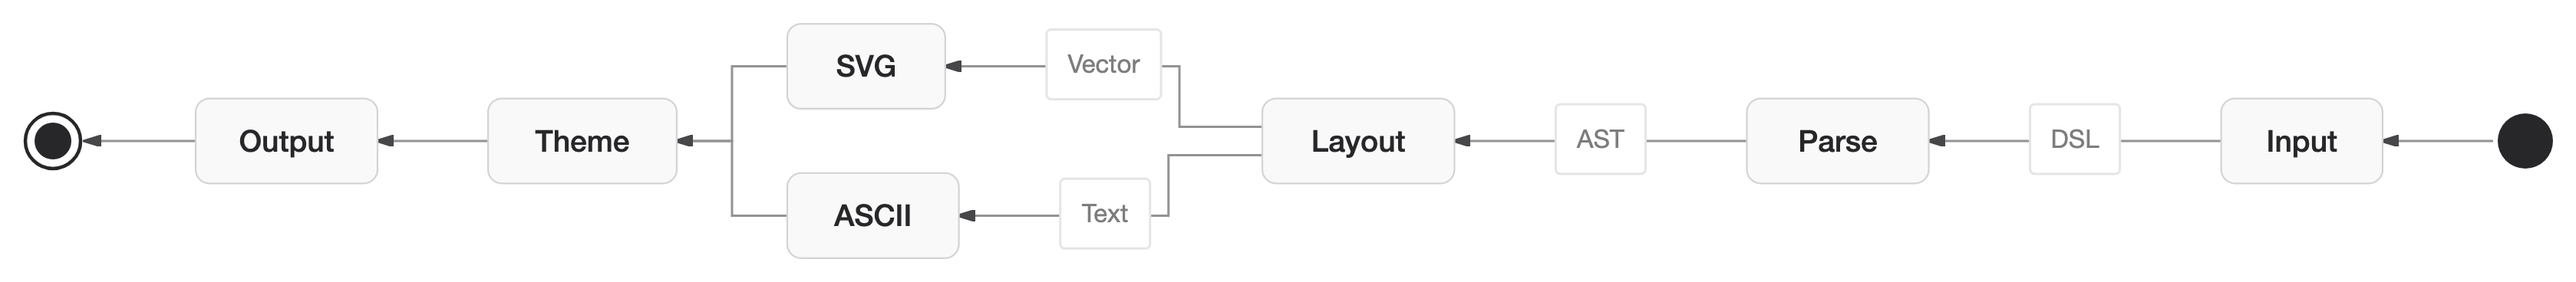
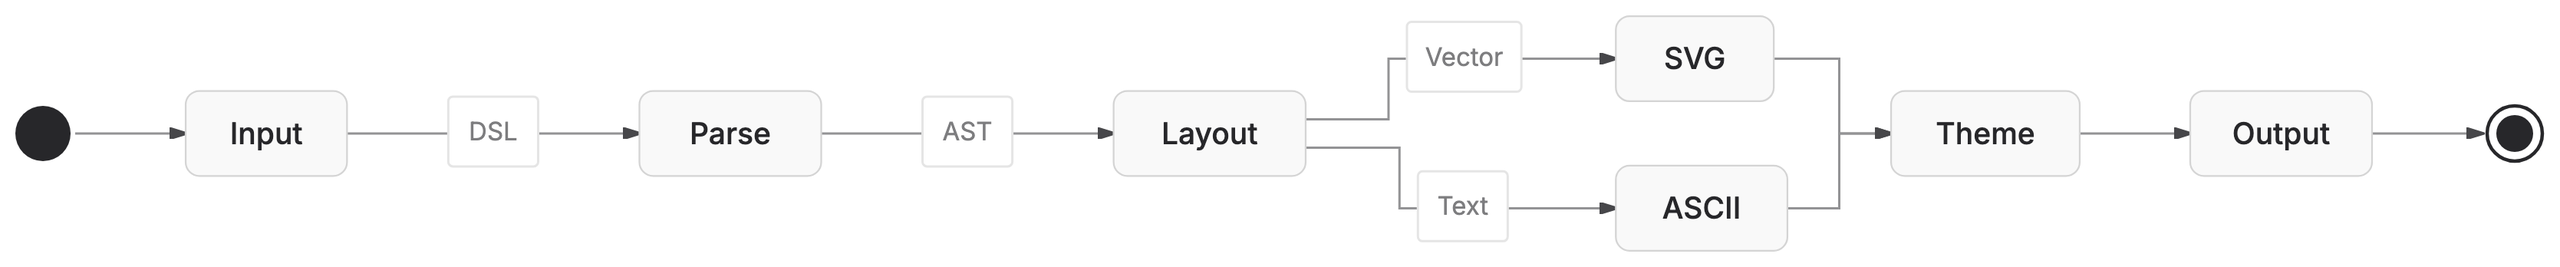
style: orient the hero sample left-to-right instead of right-to-left
Also regenerates hero.png from the LR-oriented diagram.

diff --git a/samples-data.ts b/samples-data.ts
@@ -41,7 +41,7 @@ export const samples: Sample[] = [
     category: 'Hero',
     description: 'Mermaid rendering, made beautiful.',
     source: `stateDiagram-v2
-    direction RL
+    direction LR
     [*] --> Input
     Input --> Parse: DSL
     Parse --> Layout: AST
